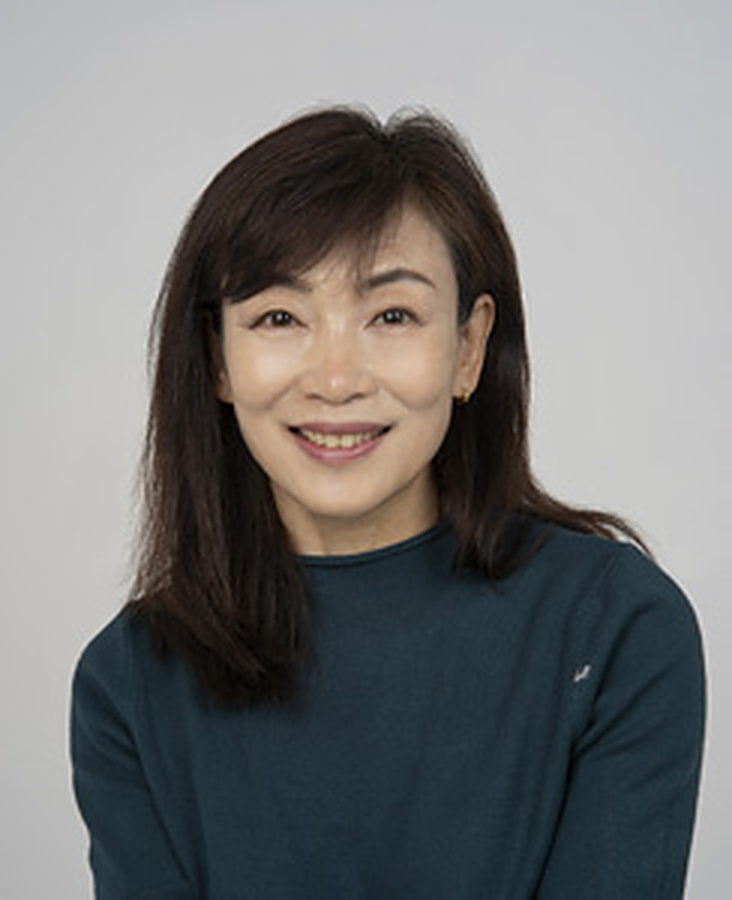
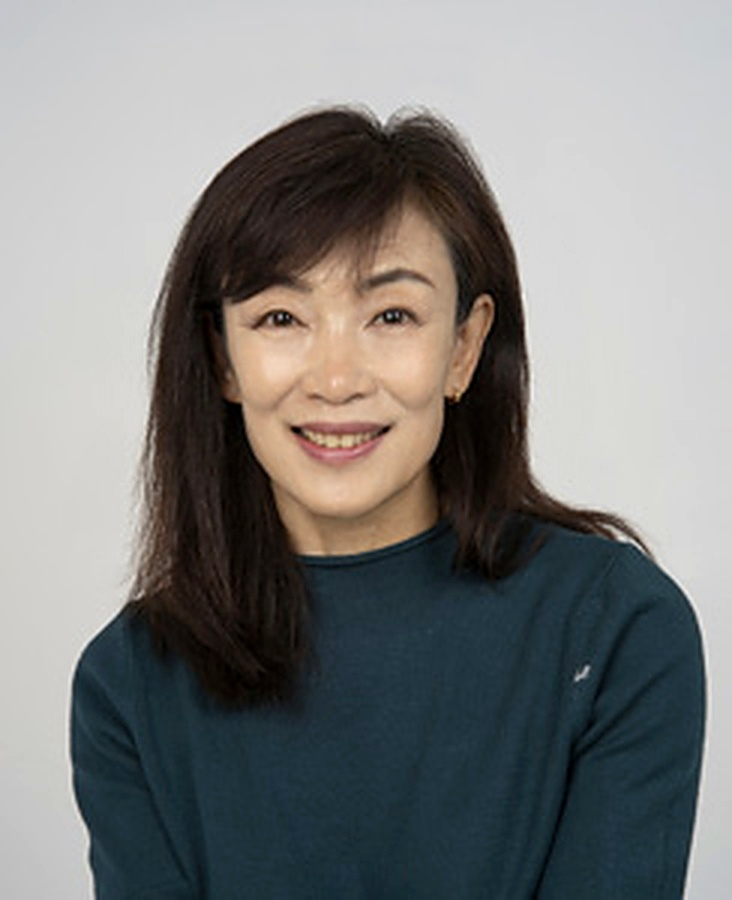
시안 2: 바탕 쪽빛, 프로필 보정본
Claude-Session: https://claude.ai/code/session_01ShJKGkJeohBzHrPgYohKCL

diff --git a/index.html b/index.html
@@ -11,7 +11,7 @@
 <meta property="og:url" content="https://exile028-sketch.github.io/kwakkyungsook/">
 <meta name="color-scheme" content="light only">
 <meta name="supported-color-schemes" content="light">
-<meta name="theme-color" content="#d4dee8">
+<meta name="theme-color" content="#23324a">
 <meta name="format-detection" content="telephone=no">
 <title>곽경숙 Kwak Kyung Sook</title>
 <link rel="preconnect" href="https://fonts.googleapis.com">
@@ -288,6 +288,23 @@
   if(!rm && ("IntersectionObserver" in window)) d.className+=" js";
 })();
 </script>
+<style>
+/* 시안 2: 바탕 쪽빛(작가 선택 F3) */
+:root{--paper:#23324a;--paper2:#2d3e5a;--ink:#eef2f7;--muted:#b8c3d1;--pome:#e8d9b5;--line:#3c4d68}
+html,body{background:#23324a}
+nav{background:rgba(35,50,74,.94)}
+.card{background:#2d3e5a}
+.copy{background:transparent;color:#e8d9b5;border-color:#e8d9b5}
+.go{background:#e8d9b5;color:#23324a}
+.links a,.series .sbar button,.series .stoggle{background:transparent}
+.series .sbar button:disabled{opacity:.4}
+#works figcaption .t{color:#e8d9b5}
+#works figcaption .m{color:#eef2f7}
+#totop{color:#23324a}
+#msg{color:#a8dcb0}
+#curtain{background:#162236;color:#eef2f7}
+.sheet,.sheet h2{color:#2b2420}
+</style>
 </head>
 <body>
 <div id="curtain" aria-hidden="true"><div class="cname">곽경숙</div><div class="csub">KWAK KYUNG SOOK</div><button type="button" id="cskip">건너뛰기</button></div>

diff --git a/contact.html b/contact.html
@@ -11,7 +11,7 @@
 <meta property="og:url" content="https://exile028-sketch.github.io/kwakkyungsook/contact.html">
 <meta name="color-scheme" content="light only">
 <meta name="supported-color-schemes" content="light">
-<meta name="theme-color" content="#d4dee8">
+<meta name="theme-color" content="#23324a">
 <meta name="format-detection" content="telephone=no">
 <title>곽경숙 Kwak Kyung Sook</title>
 <link rel="preconnect" href="https://fonts.googleapis.com">
@@ -288,6 +288,23 @@
   if(!rm && ("IntersectionObserver" in window)) d.className+=" js";
 })();
 </script>
+<style>
+/* 시안 2: 바탕 쪽빛(작가 선택 F3) */
+:root{--paper:#23324a;--paper2:#2d3e5a;--ink:#eef2f7;--muted:#b8c3d1;--pome:#e8d9b5;--line:#3c4d68}
+html,body{background:#23324a}
+nav{background:rgba(35,50,74,.94)}
+.card{background:#2d3e5a}
+.copy{background:transparent;color:#e8d9b5;border-color:#e8d9b5}
+.go{background:#e8d9b5;color:#23324a}
+.links a,.series .sbar button,.series .stoggle{background:transparent}
+.series .sbar button:disabled{opacity:.4}
+#works figcaption .t{color:#e8d9b5}
+#works figcaption .m{color:#eef2f7}
+#totop{color:#23324a}
+#msg{color:#a8dcb0}
+#curtain{background:#162236;color:#eef2f7}
+.sheet,.sheet h2{color:#2b2420}
+</style>
 </head>
 <body>
 

diff --git a/career.html b/career.html
@@ -11,7 +11,7 @@
 <meta property="og:url" content="https://exile028-sketch.github.io/kwakkyungsook/career.html">
 <meta name="color-scheme" content="light only">
 <meta name="supported-color-schemes" content="light">
-<meta name="theme-color" content="#d4dee8">
+<meta name="theme-color" content="#23324a">
 <meta name="format-detection" content="telephone=no">
 <title>곽경숙 Kwak Kyung Sook</title>
 <link rel="preconnect" href="https://fonts.googleapis.com">
@@ -288,6 +288,23 @@
   if(!rm && ("IntersectionObserver" in window)) d.className+=" js";
 })();
 </script>
+<style>
+/* 시안 2: 바탕 쪽빛(작가 선택 F3) */
+:root{--paper:#23324a;--paper2:#2d3e5a;--ink:#eef2f7;--muted:#b8c3d1;--pome:#e8d9b5;--line:#3c4d68}
+html,body{background:#23324a}
+nav{background:rgba(35,50,74,.94)}
+.card{background:#2d3e5a}
+.copy{background:transparent;color:#e8d9b5;border-color:#e8d9b5}
+.go{background:#e8d9b5;color:#23324a}
+.links a,.series .sbar button,.series .stoggle{background:transparent}
+.series .sbar button:disabled{opacity:.4}
+#works figcaption .t{color:#e8d9b5}
+#works figcaption .m{color:#eef2f7}
+#totop{color:#23324a}
+#msg{color:#a8dcb0}
+#curtain{background:#162236;color:#eef2f7}
+.sheet,.sheet h2{color:#2b2420}
+</style>
 </head>
 <body>
 

diff --git a/works.html b/works.html
@@ -11,7 +11,7 @@
 <meta property="og:url" content="https://exile028-sketch.github.io/kwakkyungsook/works.html">
 <meta name="color-scheme" content="light only">
 <meta name="supported-color-schemes" content="light">
-<meta name="theme-color" content="#d4dee8">
+<meta name="theme-color" content="#23324a">
 <meta name="format-detection" content="telephone=no">
 <title>곽경숙 Kwak Kyung Sook</title>
 <link rel="preconnect" href="https://fonts.googleapis.com">
@@ -288,6 +288,23 @@
   if(!rm && ("IntersectionObserver" in window)) d.className+=" js";
 })();
 </script>
+<style>
+/* 시안 2: 바탕 쪽빛(작가 선택 F3) */
+:root{--paper:#23324a;--paper2:#2d3e5a;--ink:#eef2f7;--muted:#b8c3d1;--pome:#e8d9b5;--line:#3c4d68}
+html,body{background:#23324a}
+nav{background:rgba(35,50,74,.94)}
+.card{background:#2d3e5a}
+.copy{background:transparent;color:#e8d9b5;border-color:#e8d9b5}
+.go{background:#e8d9b5;color:#23324a}
+.links a,.series .sbar button,.series .stoggle{background:transparent}
+.series .sbar button:disabled{opacity:.4}
+#works figcaption .t{color:#e8d9b5}
+#works figcaption .m{color:#eef2f7}
+#totop{color:#23324a}
+#msg{color:#a8dcb0}
+#curtain{background:#162236;color:#eef2f7}
+.sheet,.sheet h2{color:#2b2420}
+</style>
 </head>
 <body>
 
